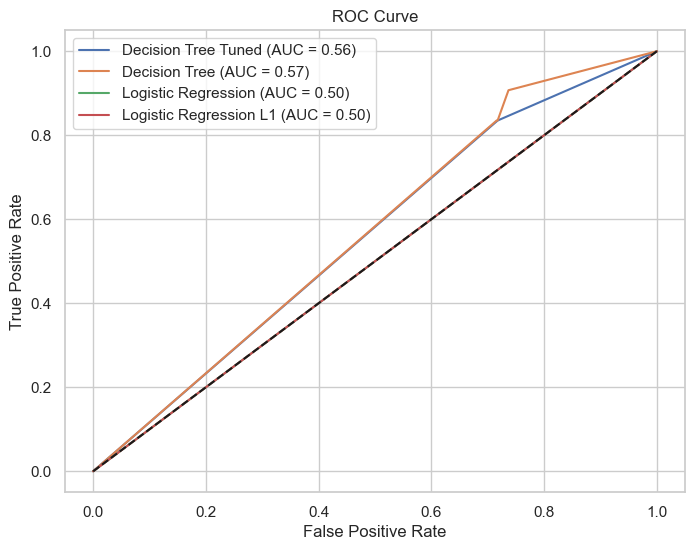
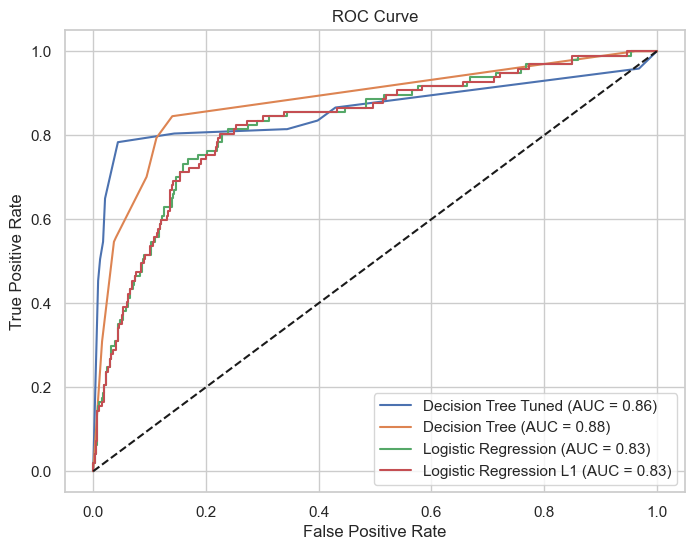
main_update-1

diff --git a/README.md b/README.md
@@ -216,12 +216,15 @@ A heatmap can show us the strength and direction of the correlation between two 
 
 * The decision tree tuned model was preferable as it outperformed all the other models in terms of precision, recall, and F1 score.
 
-![!\[alt text\](Images\ROC_curve.png)](Images/ROC_curve.png)
+![!\[!\\[alt text\\](Images\ROC_curve.png)\](Images/ROC_curve.png)](Images/ROC_curve.png)
 
 ### Discussion
-* The ROC curves show that Decision tree clearly outperforms the other models with an AUC of 0.57, indicating strong discrimination between classes.
-* Both Decision Tree variants (AUC is 0.55–0.56) perform only slightly better than random guessing, suggesting weak predictive power.
-* Both the Logistic Regression variants have an AUC of 0.50, essentially equivalent to random performance, indicating it fails to capture useful patterns.
+
+* The baseline decision tree performs best (AUC = 0.88), indicating the strongest class separation.
+* The tuned decision tree is slightly worse (AUC = 0.86), suggesting tuning may have reduced overfitting at a small cost to accuracy.
+* Both logistic regression models perform similarly (AUC = 0.83) and trail the trees.
+* This implies nonlinear relationships in the data favor tree-based models.
+* All models outperform random guessing, showing meaningful predictive power.
 * Overall, Decision tree model is the most reliable model here, while the others may need better tuning, features, or different modeling approaches.
 
 # Conclusion